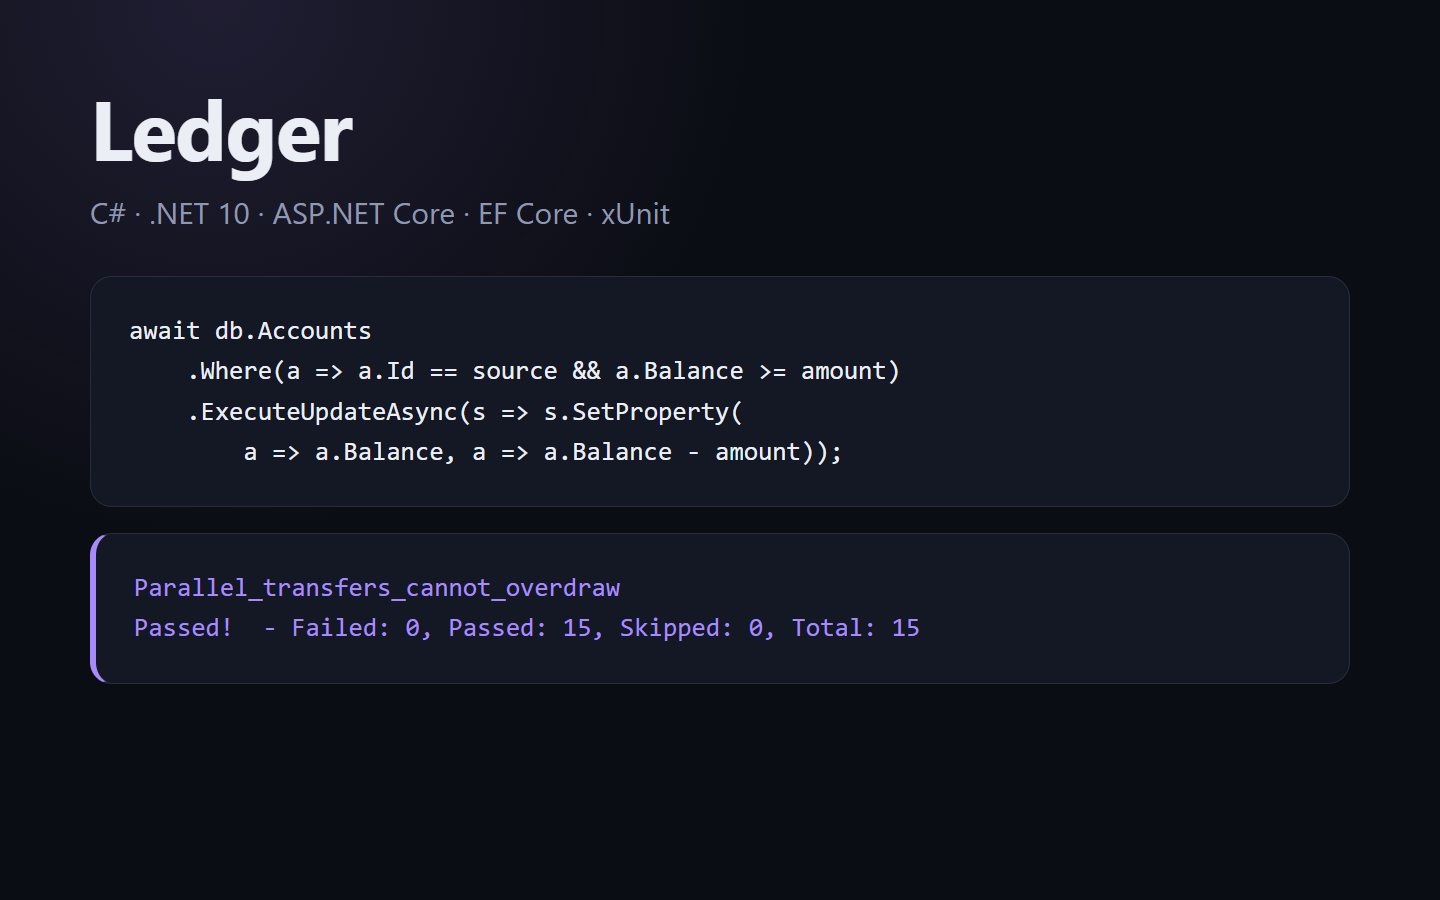
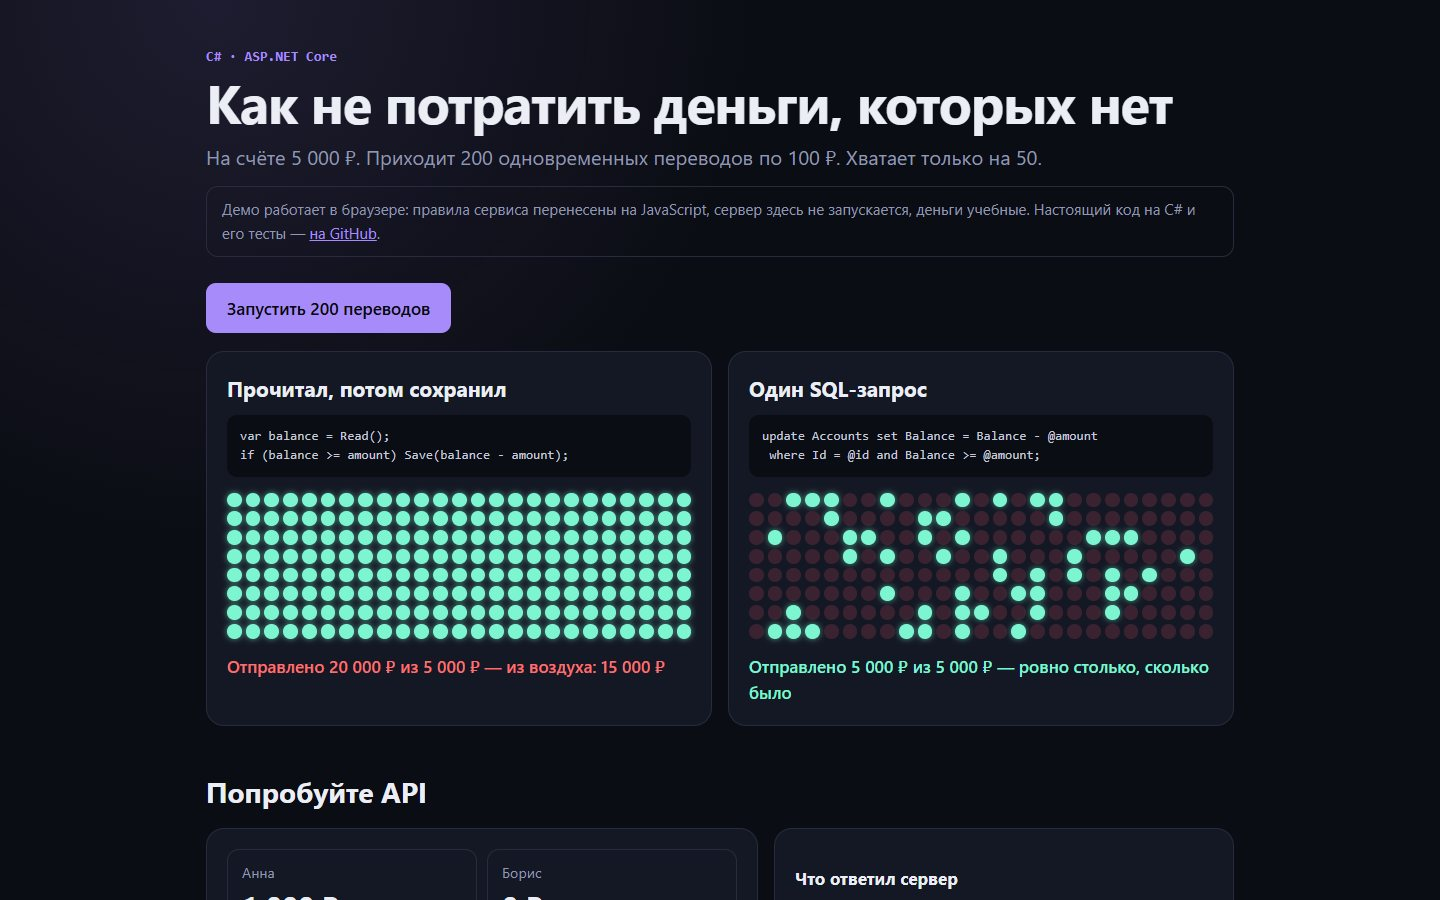
Link the live demos of Site check, Stockroom and Ledger
The cards open the browser demos and use screenshots of them as covers.

diff --git a/index.html b/index.html
@@ -59,7 +59,7 @@
       </div>
       <dl class="stats reveal">
         <div><dt data-count="16">16</dt><dd data-i18n="stats.projects">shipped projects</dd></div>
-        <div><dt data-count="376">376</dt><dd data-i18n="stats.tests">automated tests</dd></div>
+        <div><dt data-count="392">392</dt><dd data-i18n="stats.tests">automated tests</dd></div>
         <div><dt data-count="0">0</dt><dd data-i18n="stats.deps">runtime dependencies in the game and the simulation</dd></div>
         <div><dt data-count="7">7</dt><dd data-i18n="stats.langs">languages: TS, JS, Python, Java, C#, SQL, GLSL</dd></div>
       </dl>
@@ -313,20 +313,21 @@
         </article>
 
         <article class="mini wide reveal" style="--accent:#7cf5d0">
-          <a class="shot" href="https://github.com/chop-prog/site-check" target="_blank" rel="noopener" tabindex="-1" aria-hidden="true">
+          <a class="shot" href="https://chop-prog.github.io/site-check/" target="_blank" rel="noopener" tabindex="-1" aria-hidden="true">
             <img src="assets/site-check.jpg" width="1440" height="900" alt="" loading="lazy" decoding="async">
           </a>
           <p class="tag"><span>14</span> <span data-i18n="site.tag">Node.js · local tool</span></p>
           <h4 data-i18n="site.name">Site check for business owners</h4>
-          <p data-i18n="site.desc">Enter an address and get a plain-language report: what gets in the way of customers and search engines, what to fix first, and a ready message for the owner. A small local server fetches the page, and pure functions turn its HTML into ranked problems. It runs on your own computer, so there is no public demo.</p>
+          <p data-i18n="site.desc">Enter an address and get a plain-language report: what gets in the way of customers and search engines, what to fix first, and a ready message for the owner. Pure functions turn a page's HTML into ranked problems. The online demo checks sample pages or HTML you paste; checking by address needs the small local server.</p>
           <p class="tech">Node.js · node:test · no dependencies</p>
           <div class="links">
-            <a class="btn primary" href="https://github.com/chop-prog/site-check" target="_blank" rel="noopener" data-i18n="code">Source code</a>
+            <a class="btn primary" href="https://chop-prog.github.io/site-check/" target="_blank" rel="noopener" data-i18n="live">Live demo</a>
+            <a class="btn" href="https://github.com/chop-prog/site-check" target="_blank" rel="noopener" data-i18n="code">Source code</a>
           </div>
         </article>
 
         <article class="mini wide reveal" style="--accent:#fbbf24">
-          <a class="shot" href="https://github.com/chop-prog/stockroom" target="_blank" rel="noopener" tabindex="-1" aria-hidden="true">
+          <a class="shot" href="https://chop-prog.github.io/stockroom/" target="_blank" rel="noopener" tabindex="-1" aria-hidden="true">
             <img src="assets/stockroom.jpg" width="1440" height="900" alt="" loading="lazy" decoding="async">
           </a>
           <p class="tag"><span>15</span> <span data-i18n="stock.tag">Java · backend</span></p>
@@ -334,12 +335,13 @@
           <p data-i18n="stock.desc">Clients reserve goods, unpaid reservations expire and return to stock, and nothing can be sold twice. The stock check and the update are one SQL statement, and confirm, release and expiry are conditional updates, so exactly one of them wins a race. A test fires 100 concurrent requests at the last 10 units.</p>
           <p class="tech">Java 21 · Spring Boot · JPA · JUnit 5</p>
           <div class="links">
-            <a class="btn primary" href="https://github.com/chop-prog/stockroom" target="_blank" rel="noopener" data-i18n="code">Source code</a>
+            <a class="btn primary" href="https://chop-prog.github.io/stockroom/" target="_blank" rel="noopener" data-i18n="live">Live demo</a>
+            <a class="btn" href="https://github.com/chop-prog/stockroom" target="_blank" rel="noopener" data-i18n="code">Source code</a>
           </div>
         </article>
 
         <article class="mini wide reveal" style="--accent:#a78bfa">
-          <a class="shot" href="https://github.com/chop-prog/ledger" target="_blank" rel="noopener" tabindex="-1" aria-hidden="true">
+          <a class="shot" href="https://chop-prog.github.io/ledger/" target="_blank" rel="noopener" tabindex="-1" aria-hidden="true">
             <img src="assets/ledger.jpg" width="1440" height="900" alt="" loading="lazy" decoding="async">
           </a>
           <p class="tag"><span>16</span> <span data-i18n="ledger.tag">C# · backend</span></p>
@@ -347,7 +349,8 @@
           <p data-i18n="ledger.desc">An account can't be overdrawn, and retrying a request can't move the money twice: idempotency keys return the first result. Each transfer writes both sides of a double entry, so an account's entries always add up to its balance. Tests run 200 parallel transfers from an account that can afford 50.</p>
           <p class="tech">C# · .NET 10 · ASP.NET Core · EF Core · xUnit</p>
           <div class="links">
-            <a class="btn primary" href="https://github.com/chop-prog/ledger" target="_blank" rel="noopener" data-i18n="code">Source code</a>
+            <a class="btn primary" href="https://chop-prog.github.io/ledger/" target="_blank" rel="noopener" data-i18n="live">Live demo</a>
+            <a class="btn" href="https://github.com/chop-prog/ledger" target="_blank" rel="noopener" data-i18n="code">Source code</a>
           </div>
         </article>
       </div>

diff --git a/src/i18n.js b/src/i18n.js
@@ -89,7 +89,7 @@ export const STRINGS = {
     'hunt.desc': 'A game for testers: a coffee shop with nine bugs, four false reports and five minutes on the clock. The game knows which bugs you really reproduced, and at the end shows each cause, its fix and the test that catches it. Every bug is tested both ways: switched off, the shop is correct; switched on, exactly the reported symptom appears.',
     'site.tag': 'Node.js · local tool',
     'site.name': 'Site check for business owners',
-    'site.desc': 'Enter an address and get a plain-language report: what gets in the way of customers and search engines, what to fix first, and a ready message for the owner. A small local server fetches the page, and pure functions turn its HTML into ranked problems. It runs on your own computer, so there is no public demo.',
+    'site.desc': 'Enter an address and get a plain-language report: what gets in the way of customers and search engines, what to fix first, and a ready message for the owner. Pure functions turn a page\'s HTML into ranked problems. The online demo checks sample pages or HTML you paste; checking by address needs the small local server.',
     'bot.name': 'Booking bot for small businesses',
     'bot.desc': 'Clients pick a service, a day and a free time slot right in Telegram. Slots respect the service length, working hours and existing bookings; a SQLite transaction prevents double booking. Reminders, admin notifications, and all settings in one file. Tests drive the whole conversation through a fake Telegram API.',
     'lab.title': 'Lab',
@@ -269,7 +269,7 @@ export const STRINGS = {
     'hunt.desc': 'Игра для тестировщиков: кофейня с девятью багами, четыре ложные жалобы и пять минут на всё. Игра знает, какие баги вы действительно воспроизвели, а в конце показывает причину каждого, исправление и тест, который его ловит. Каждый баг проверен тестами в обе стороны: при выключенном магазин работает правильно, при включённом появляется именно заявленный симптом.',
     'site.tag': 'Node.js · локальный инструмент',
     'site.name': 'Проверка сайта для владельцев бизнеса',
-    'site.desc': 'Вводите адрес и получаете отчёт простыми словами: что мешает клиентам и поисковикам, что исправить в первую очередь, и готовое сообщение владельцу. Страницу скачивает маленький локальный сервер, а чистые функции превращают её HTML в список проблем по важности. Работает на вашем компьютере, поэтому публичного демо нет.',
+    'site.desc': 'Вводите адрес и получаете отчёт простыми словами: что мешает клиентам и поисковикам, что исправить в первую очередь, и готовое сообщение владельцу. Чистые функции превращают HTML страницы в список проблем по важности. Онлайн-демо проверяет примеры или HTML, который вы вставите, а для проверки по адресу нужен маленький локальный сервер.',
     'bot.name': 'Бот записи клиентов для малого бизнеса',
     'bot.desc': 'Клиент прямо в Telegram выбирает услугу, день и свободное время. Слоты учитывают длительность услуги, часы работы и уже занятые записи, а транзакция SQLite не даёт записать двоих на одно время. Напоминания, уведомления администратору, все настройки в одном файле. Тесты проходят весь диалог через поддельный Telegram API.',
     'lab.title': 'Лаборатория',
